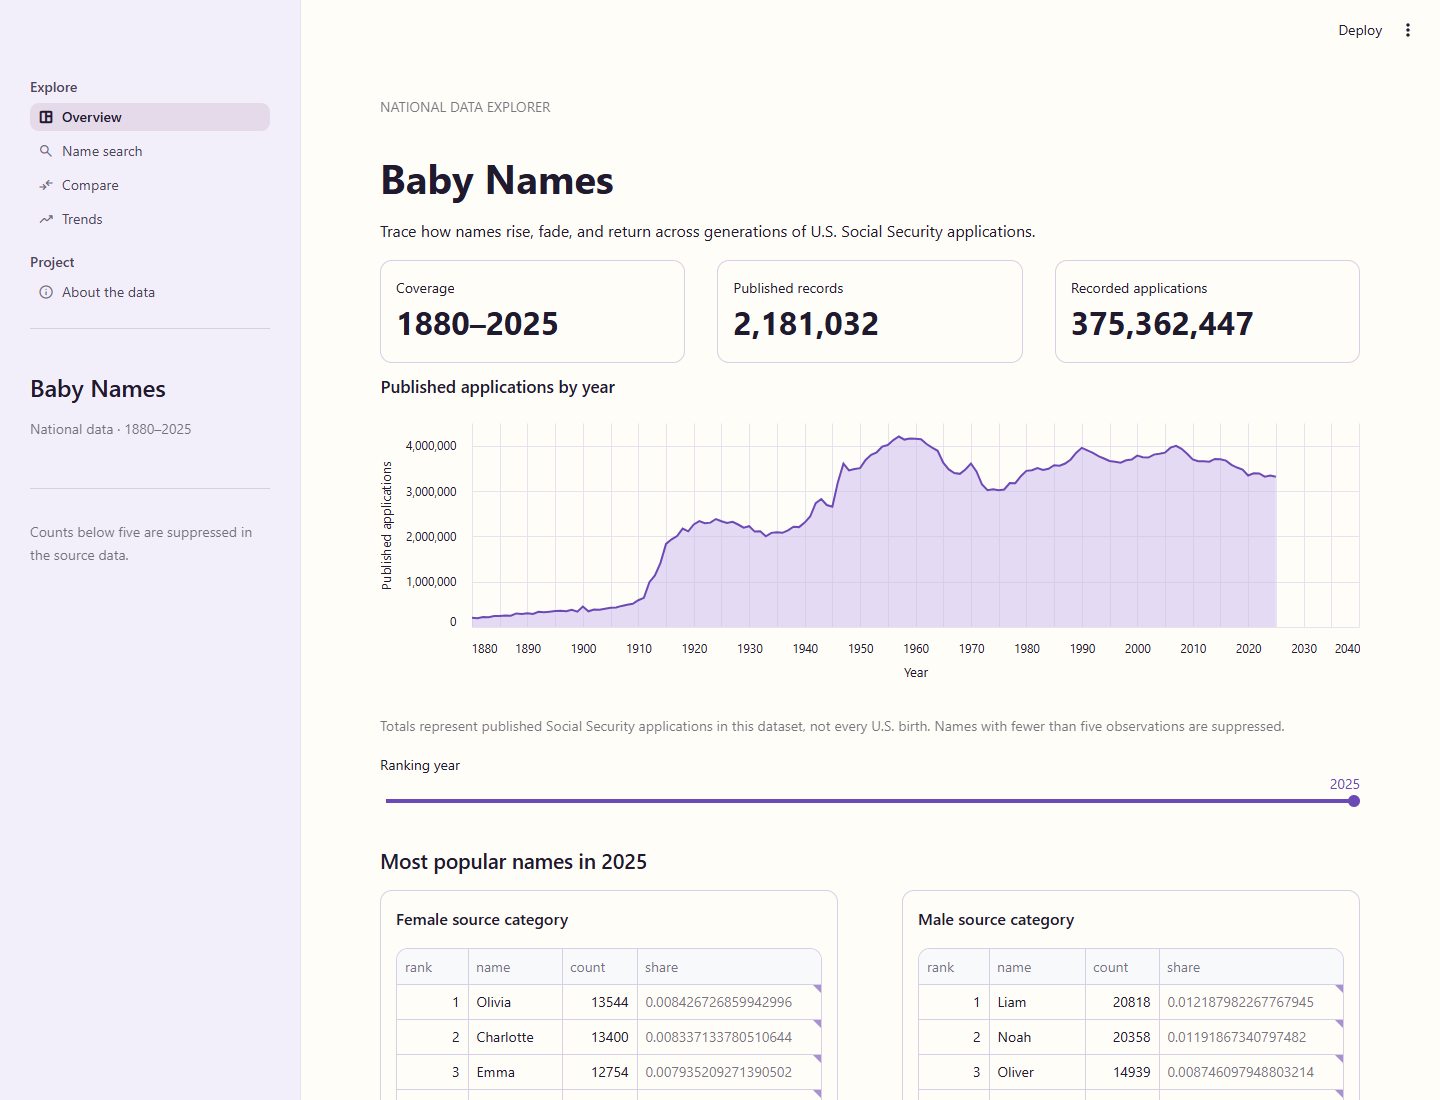
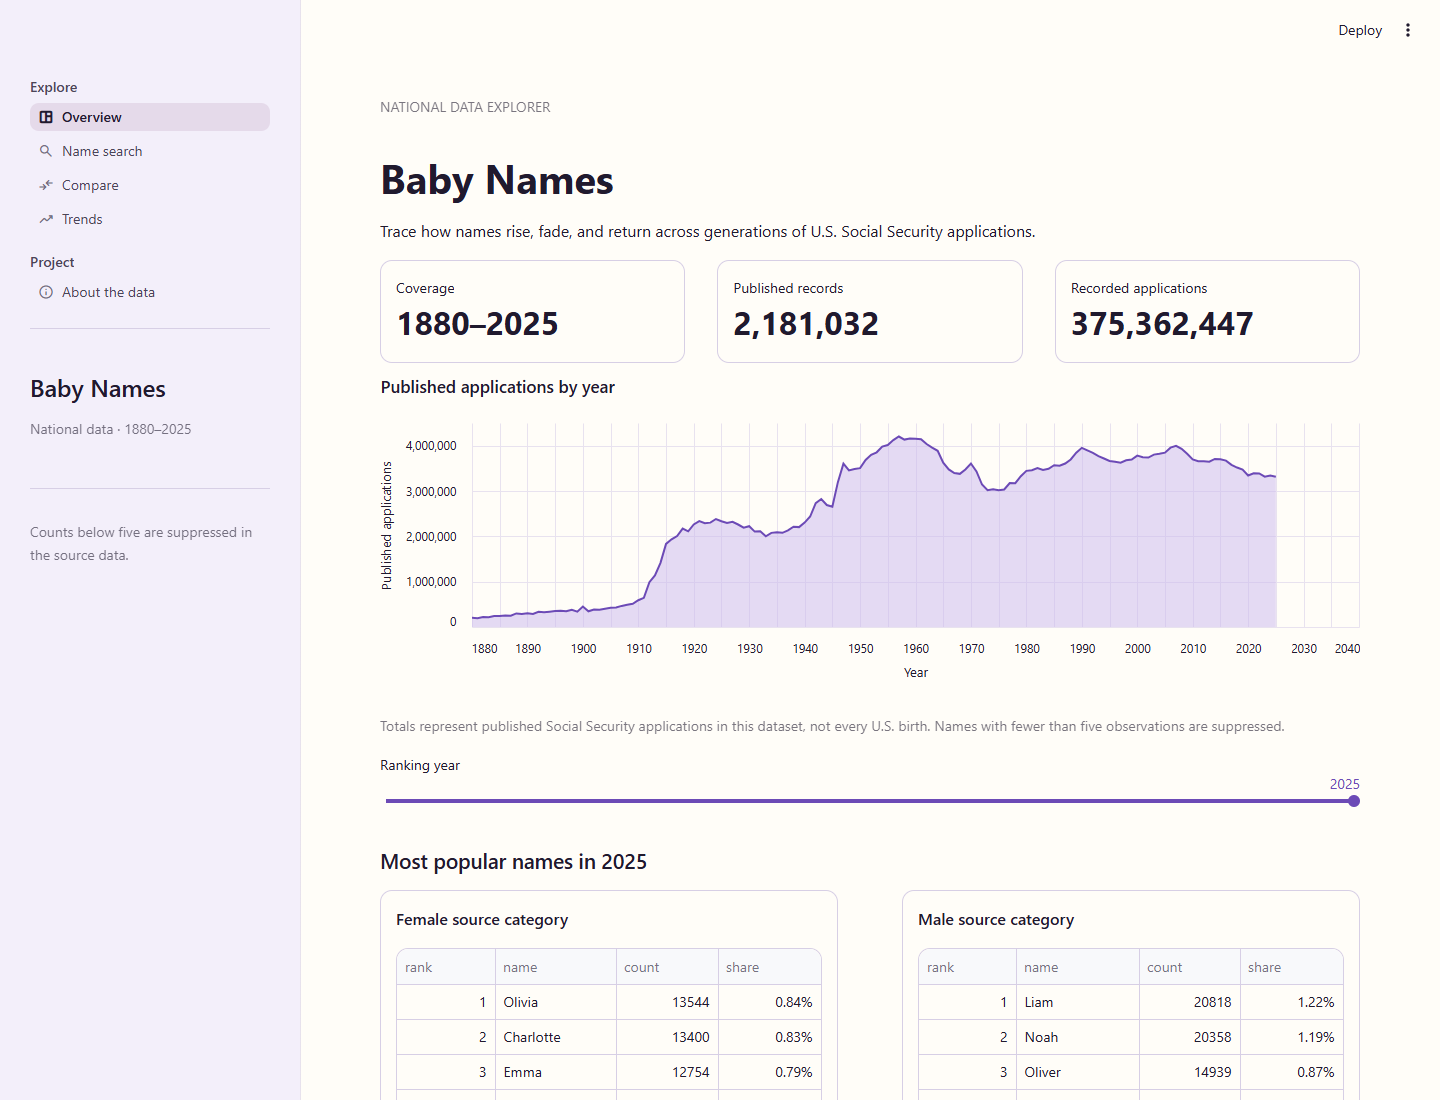
fix: format table shares as percentages

diff --git a/src/babynames/ui/pages.py b/src/babynames/ui/pages.py
@@ -21,6 +21,7 @@ METRIC_LABELS = {
     "rank": "Rank",
     "share": "Category share",
 }
+PERCENT_FORMAT = "percent"
 
 
 def _preferred_name(names: tuple[str, ...], preferred: str) -> int:
@@ -106,7 +107,7 @@ def render_overview(analytics: BabyNameAnalytics, manifest: Mapping[str, Any]) -
                 hide_index=True,
                 width="stretch",
                 height=390,
-                column_config={"share": st.column_config.NumberColumn(format="%.2%%")},
+                column_config={"share": st.column_config.NumberColumn(format=PERCENT_FORMAT)},
             )
 
 
@@ -169,7 +170,7 @@ def render_explore(analytics: BabyNameAnalytics) -> None:
             hide_index=True,
             width="stretch",
             height=420,
-            column_config={"share": st.column_config.NumberColumn(format="%.3%%")},
+            column_config={"share": st.column_config.NumberColumn(format=PERCENT_FORMAT)},
         )
 
 
@@ -300,9 +301,9 @@ def render_trends(analytics: BabyNameAnalytics) -> None:
                 width="stretch",
                 height=520,
                 column_config={
-                    "start_share": st.column_config.NumberColumn(format="%.3%%"),
-                    "end_share": st.column_config.NumberColumn(format="%.3%%"),
-                    "share_change": st.column_config.NumberColumn(format="%+.3%%"),
+                    "start_share": st.column_config.NumberColumn(format=PERCENT_FORMAT),
+                    "end_share": st.column_config.NumberColumn(format=PERCENT_FORMAT),
+                    "share_change": st.column_config.NumberColumn(format=PERCENT_FORMAT),
                 },
             )
             st.caption(
@@ -325,7 +326,7 @@ def render_trends(analytics: BabyNameAnalytics) -> None:
             width="stretch",
             height=560,
             column_config={
-                "female_share": st.column_config.NumberColumn(format="%.1%%"),
+                "female_share": st.column_config.NumberColumn(format=PERCENT_FORMAT),
                 "balance_score": st.column_config.ProgressColumn(min_value=0, max_value=1),
             },
         )

diff --git a/tests/test_app.py b/tests/test_app.py
@@ -11,6 +11,12 @@ from streamlit.testing.v1 import AppTest
 from babynames.analytics import BabyNameAnalytics
 from babynames.data_pipeline import build_dataset
 from babynames.settings import PROCESSED_DIR_ENV
+from babynames.ui.pages import PERCENT_FORMAT
+
+
+def test_dataframe_shares_use_streamlit_percentage_format() -> None:
+    """Fractional share values should render as concise percentages in every table."""
+    assert PERCENT_FORMAT == "percent"
 
 
 def render_page_harness(page_name: str, arguments: tuple[object, ...]) -> None:

diff --git a/PROJECT_MEMORY.md b/PROJECT_MEMORY.md
@@ -287,6 +287,15 @@ Completed:
 - Added a durable release checklist, explicit known limitations, and draft changelog
 - Added the MIT License and declared it in package and user-facing metadata while
   distinguishing the separately sourced SSA data
+- Corrected every share table to use Streamlit's supported percentage formatter, so
+  fractional values display as concise percentages instead of long raw decimals
+
+Latest UI verification:
+
+- Browser inspection confirmed Olivia's 2025 category share renders as `0.84%` and
+  Liam's as `1.22%`
+- Post-fix quality gate passed with 40 tests, 83.50% branch coverage, strict typing,
+  formatting, linting, and no known dependency vulnerabilities
 
 Remaining:
 

diff --git a/CHANGELOG.md b/CHANGELOG.md
@@ -25,4 +25,8 @@ and the project uses semantic versioning for release tags.
 - SSA suppression means absent observations cannot be treated as zero.
 - Manual screen-reader and 200% zoom acceptance checks remain before `v1.0.0`.
 
+### Fixed
+
+- Share columns now display concise percentages instead of long fractional decimals.
+
 [Unreleased]: https://github.com/dsamy-byte/babynames/compare/main...HEAD
